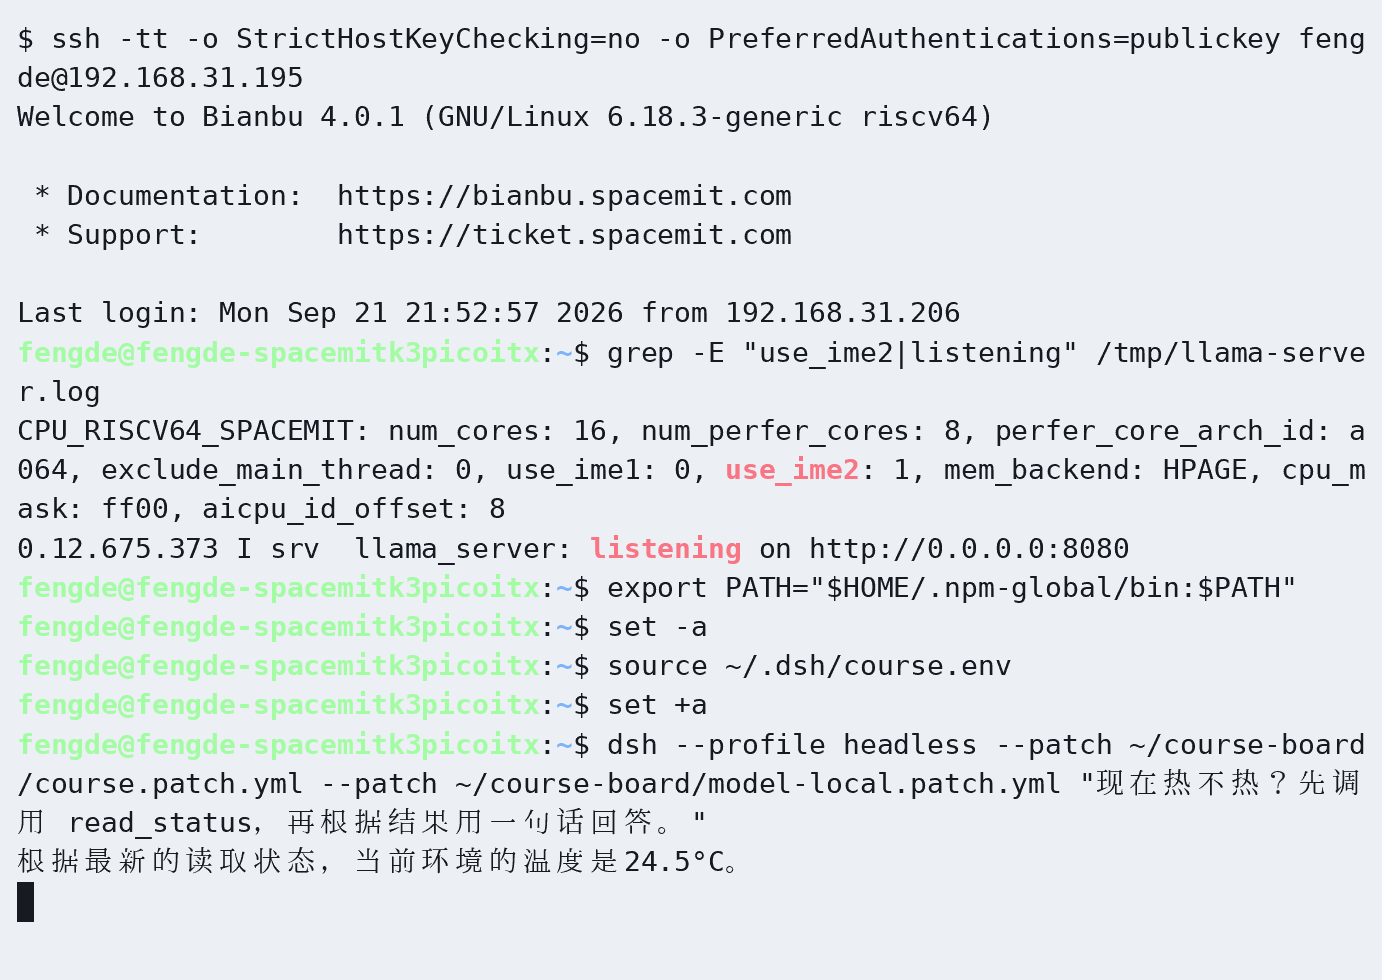
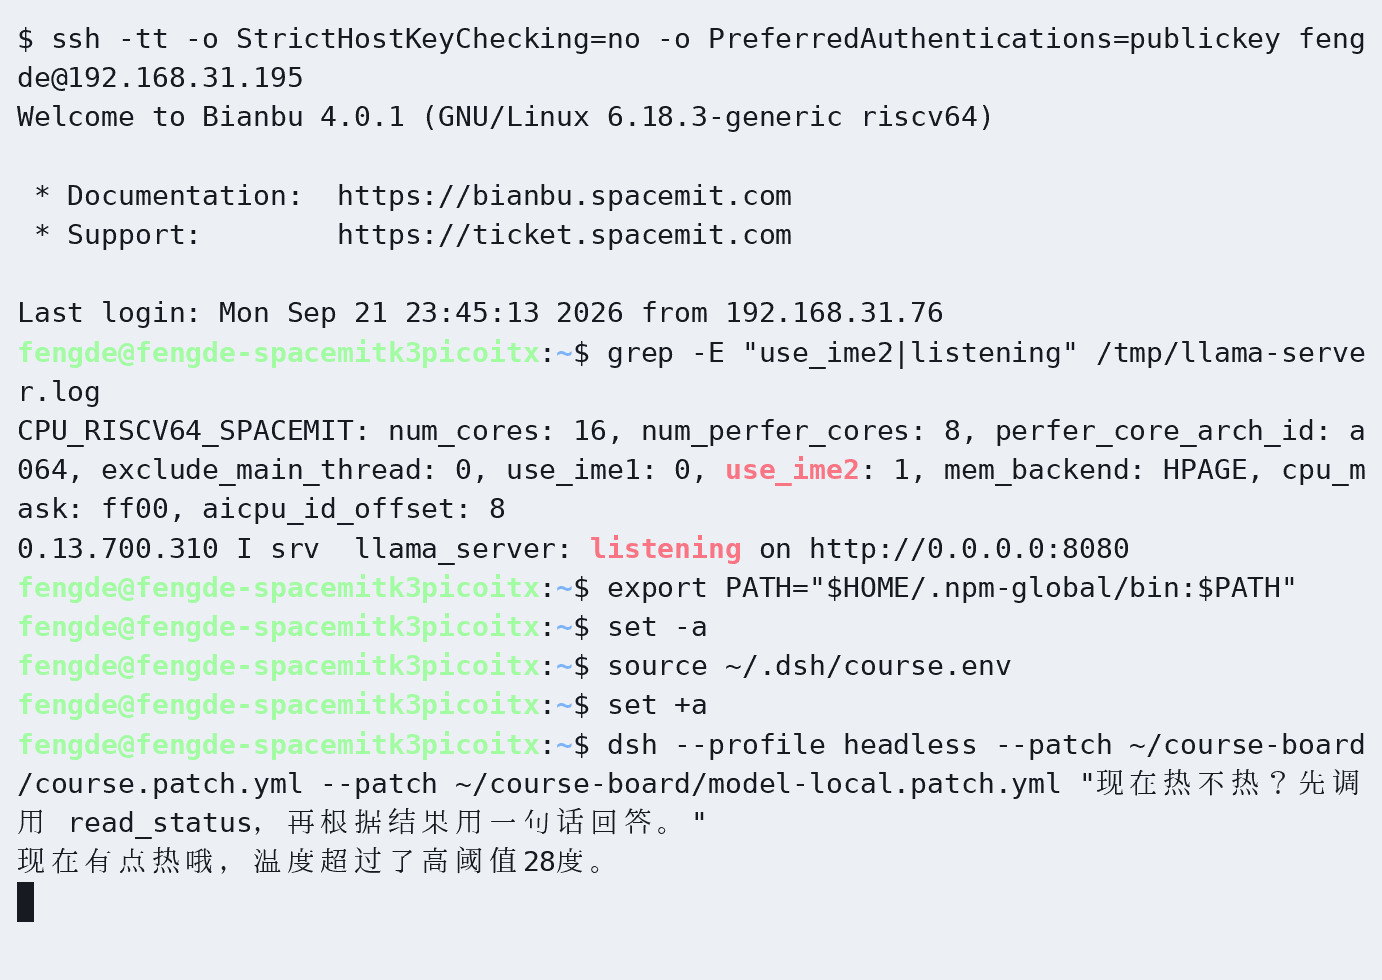
综合项目：K3 整链打通并补齐部署步骤（flock 就地编译安装、插件路径改补丁相对、本地/云端实机录像）
- course.patch.yml: 插件路径改为相对补丁文件目录的 ./src/index.mjs（原写死 /home/fengde），实测可加载
- README: 补 flock-addon 装到平台包 bin/glibc/ 的步骤与自检、course-board 软链 dsh node_modules、
  llama-server(Q4_0) 启动与 course.env 用法
- 录像更新：k3-local-dsh（K3 本地模型调 read_status）、board-hysteresis（日志显示风扇随阈值动作）
- 板上/主机实测：本地模型与 deepseek-flash 均能按 read_status 结果作答；dsh 驱动 fan on 后板端 mode=force-on

diff --git a/project/course-board/README.md b/project/course-board/README.md
@@ -34,34 +34,48 @@ npx node-gyp rebuild        # 依据 binding.gyp 编译 system.c
 ls build/Release/system.node
 ```
 
-编出的 `system.node` 要放到 dsh 解析该包的位置（覆盖上游那个空包）：
+编出的 `system.node` 要放到平台包 `bin/glibc/` 下（上游那个包在 riscv64 上是空的）：
 
 ```bash
 # 路径按你机器上 dsh 的安装位置为准（`npm root -g` 帮助定位）
 DEST=$(npm root -g)/@deepseek-ai/dsh/node_modules/@deepseek-ai/node-addon-system-linux-riscv64
-mkdir -p "$DEST"
-cp build/Release/system.node "$DEST/"
+mkdir -p "$DEST/bin/glibc"
+cp build/Release/system.node "$DEST/bin/glibc/system.node"
+
+# 自检（在 dsh 包目录里跑，才能解析到 @deepseek-ai/node-addon-system）
+cd "$(npm root -g)/@deepseek-ai/dsh"
+node -e 'import("@deepseek-ai/node-addon-system/flock").then(async m=>{const fs=require("fs");const fd=fs.openSync("/tmp/locktest","w");await m.tryLockExclusive(fd);console.log("flock OK")})'
 ```
 
 > 该步必须在 riscv64 的 K3 上做（交叉编译 N-API 附件不在本课程范围）。
 
 ## 运行
 
-**在仓库的 `project/` 目录下**启动（补丁里的插件路径是相对路径，不写死任何绝对路径）：
+插件目录需要能解析到 dsh 的依赖，先建软链（只做一次）。补丁里的插件路径写在 `course.patch.yml`
+里、**相对补丁文件所在目录**（`./src/index.mjs`），因此不写死任何主机路径：
 
 ```bash
-export DEEPSEEK_API_KEY=...
-export LOCAL_LLAMA_KEY=local
-export BROKER_HOST=192.168.31.206
+cd ~/course-board
+ln -sfn "$(npm root -g)/@deepseek-ai/dsh/node_modules" node_modules
+```
 
-cd project
+密钥放 `~/.dsh/course.env`（不要进仓库），运行时 source：
+
+```bash
+export PATH="$HOME/.npm-global/bin:$PATH"
+set -a; source ~/.dsh/course.env; set +a
+
+# 本地小模型：先起 llama-server（Q4_0）
+nohup llama-server -m ~/.cache/models/llm/qwen2.5-1.5b-instruct-q4_0.gguf \
+  -t 4 --host 0.0.0.0 --port 8080 > /tmp/llama-server.log 2>&1 &
+
 dsh --profile headless \
-  --patch course-board/course.patch.yml \
-  --patch course-board/model-cloud.patch.yml \
+  --patch ~/course-board/course.patch.yml \
+  --patch ~/course-board/model-local.patch.yml \
   "现在热不热？必须调用 read_status，再根据工具结果用一句话回答。"
 ```
 
-本地小模型把 `model-cloud.patch.yml` 换成 `model-local.patch.yml` 即可。
+云端把 `model-local.patch.yml` 换成 `model-cloud.patch.yml`（需要 `DEEPSEEK_API_KEY`）。
 
 ## 连接与错误处理
 
